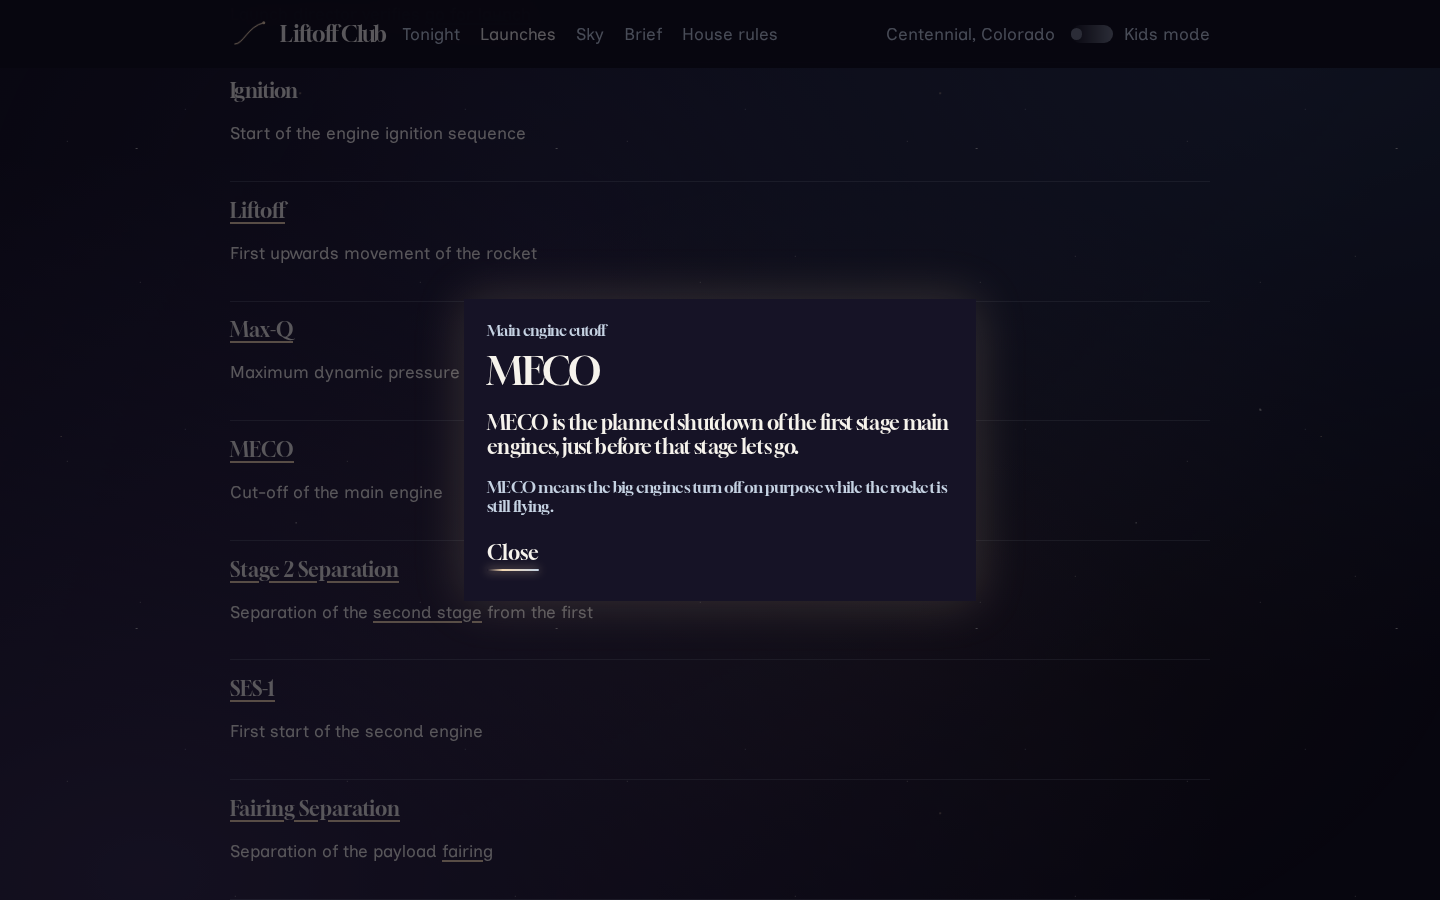
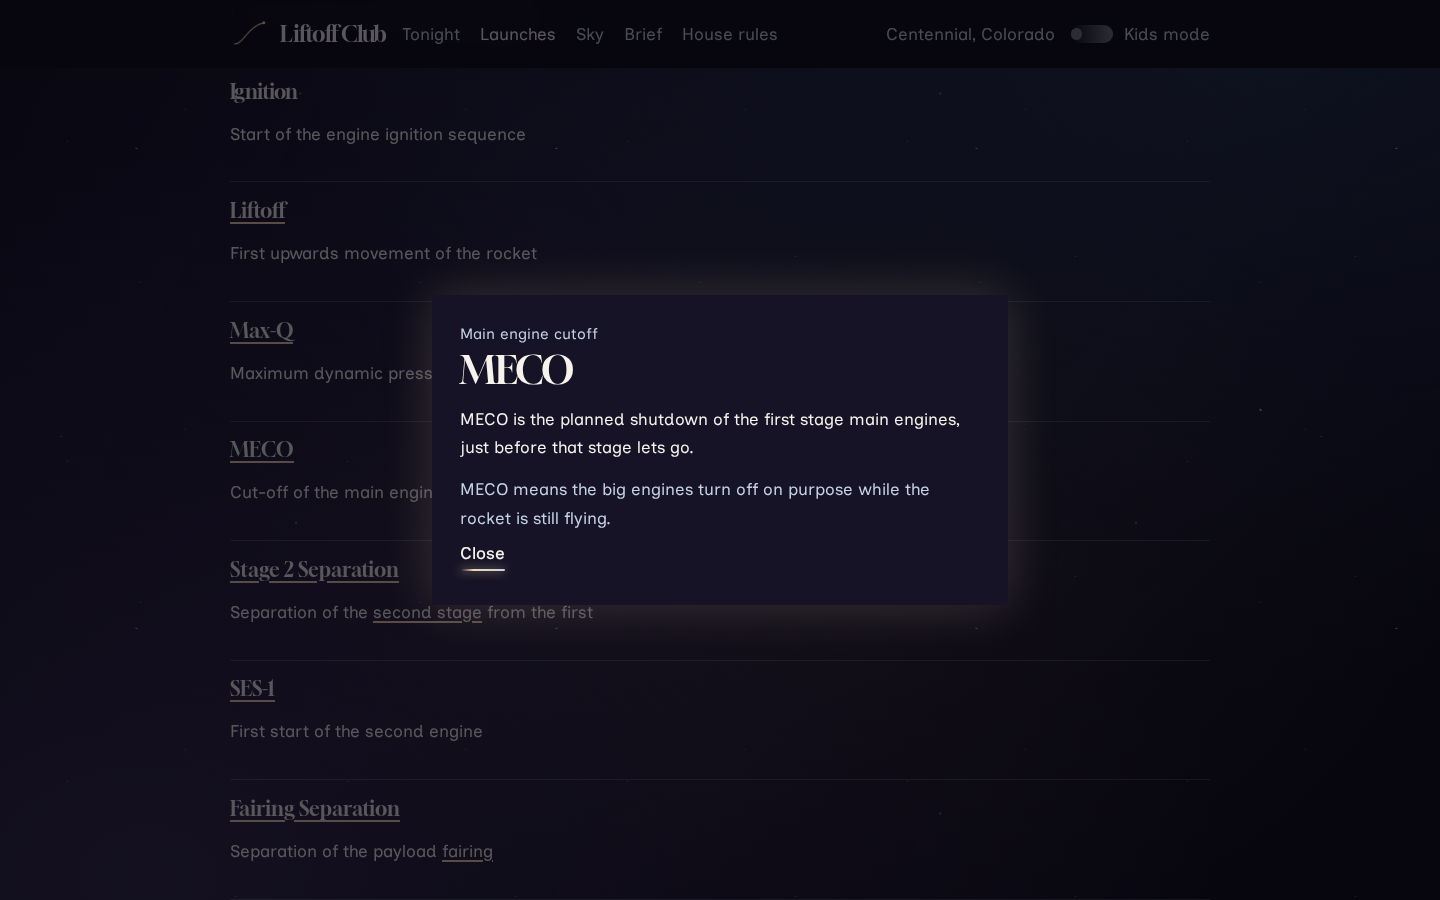
Keep the hero trail above the title and show the rocket photo first.
The catalog group does not list satellites that have already come down, so the page no longer prints the same number twice as launched and in orbit. Screenshots cover the hero, the term card, a licensed launch photo, the fallback, and the constellation board.

diff --git a/app/constellations/page.tsx b/app/constellations/page.tsx
@@ -44,12 +44,16 @@ function Counts({ counts }: { counts: ConstellationCounts | null }) {
   if (!counts) return <p className="note">The catalog did not answer, so the live count is blank.</p>
   return (
     <dl className="plate">
-      <dt>Launched</dt>
-      <dd>{formatCount(counts.launched)}</dd>
       <dt>In orbit</dt>
       <dd>{formatCount(counts.inOrbit)}</dd>
-      <dt>Launches this year</dt>
-      <dd>{formatCount(counts.launchesThisYear)}</dd>
+      {counts.launched !== counts.inOrbit ? (
+        <>
+          <dt>Launched</dt>
+          <dd>{formatCount(counts.launched)}</dd>
+        </>
+      ) : null}
+      <dt>This year</dt>
+      <dd>{formatCount(counts.launchesThisYear)} launches</dd>
     </dl>
   )
 }
@@ -63,7 +67,7 @@ export default async function ConstellationsPage() {
       <h1>Constellations</h1>
       <p className="lede when-kid">How many satellites are up, and what they do. A plan number is shown only when a company or a government wrote it down.</p>
       <p className="lede when-adult">
-        In orbit, launched, and launches this year come from the CelesTrak catalog. A stated size or capacity is shown only with a source and a date. If we do not have one, the line stays blank.
+        In orbit and launches this year come from the CelesTrak catalog. A stated size or capacity is shown only with a source and a date. If we do not have one, the line stays blank.
       </p>
       {cards.map((card) => (
         <section key={card.profile.id}>
@@ -98,7 +102,9 @@ export default async function ConstellationsPage() {
           </div>
         </section>
       ))}
-      <p className="note">Catalog counts can include spares and can lag a new launch by a day or two. They are not a promise of how many are working.</p>
+      <p className="note">
+        The catalog group lists satellites it still tracks. It does not add back ones that have already come down, so a separate launched total appears only when the file includes them. Counts can include spares and can lag a new launch by a day or two.
+      </p>
     </main>
   )
 }

diff --git a/components/trail.tsx b/components/trail.tsx
@@ -9,17 +9,17 @@ export function Trail({
   return (
     <svg
       className={`trail trail-${span} light-${glow}`}
-      viewBox={wide ? '0 0 1200 240' : '0 0 220 40'}
+      viewBox={wide ? '0 0 1200 160' : '0 0 220 40'}
       aria-hidden="true"
     >
       <path
-        d={wide ? 'M0 210C280 214 640 78 1176 36' : 'M4 32C52 32 78 8 214 10'}
+        d={wide ? 'M0 108C260 128 620 18 1172 46' : 'M4 32C52 32 78 8 214 10'}
         fill="none"
         stroke="currentColor"
         strokeWidth={wide ? 1.4 : 1.6}
         strokeLinecap="round"
       />
-      <circle className="trail-head" cx={wide ? 1176 : 214} cy={wide ? 36 : 10} r={wide ? 4.2 : 2.4} fill="currentColor" />
+      <circle className="trail-head" cx={wide ? 1172 : 214} cy={wide ? 46 : 10} r={wide ? 5 : 2.4} fill="currentColor" />
     </svg>
   )
 }

diff --git a/app/launches/[id]/page.tsx b/app/launches/[id]/page.tsx
@@ -48,12 +48,12 @@ export default async function LaunchPage({ params }: { params: Promise<{ id: str
         {launch.provider.name} · {launch.padLocation ?? launch.padName}
       </p>
       <div className="detail-top">
+        <RocketFigure rocketName={launch.rocketName} />
         <div style={{ display: 'flex', gap: '0.8rem', alignItems: 'center' }}>
           <Patch provider={launch.provider.name} rocket={launch.rocketName} />
           <StatusStamp abbrev={launch.statusAbbrev} name={launch.statusName} />
         </div>
         <h1>{launch.name}</h1>
-        <RocketFigure rocketName={launch.rocketName} />
         <AiOrbit notes={aiNotes} />
         <Countdown net={launch.net} size="lg" />
         <p className="day-link">

diff --git a/app/globals.css b/app/globals.css
@@ -302,10 +302,10 @@ dialog.term-card .kicker { font-size: 0.95rem; margin: 0; }
 .trail { width: 7.5rem; height: auto; display: block; }
 .trail-hero {
   position: absolute;
-  left: -22%;
-  top: 1.5rem;
-  width: 148%;
-  height: auto;
+  left: -4%;
+  top: 0;
+  width: 112%;
+  height: 34%;
   pointer-events: none;
 }
 .tonight::before {
@@ -389,7 +389,7 @@ dialog.term-card .kicker { font-size: 0.95rem; margin: 0; }
 .detail-grid { display: grid; gap: 2rem; }
 .plate {
   display: grid;
-  grid-template-columns: 7rem 1fr;
+  grid-template-columns: 9.5rem 1fr;
   gap: 0.45rem 0.8rem;
   margin: 0.8rem 0 0;
   color: var(--cold);
